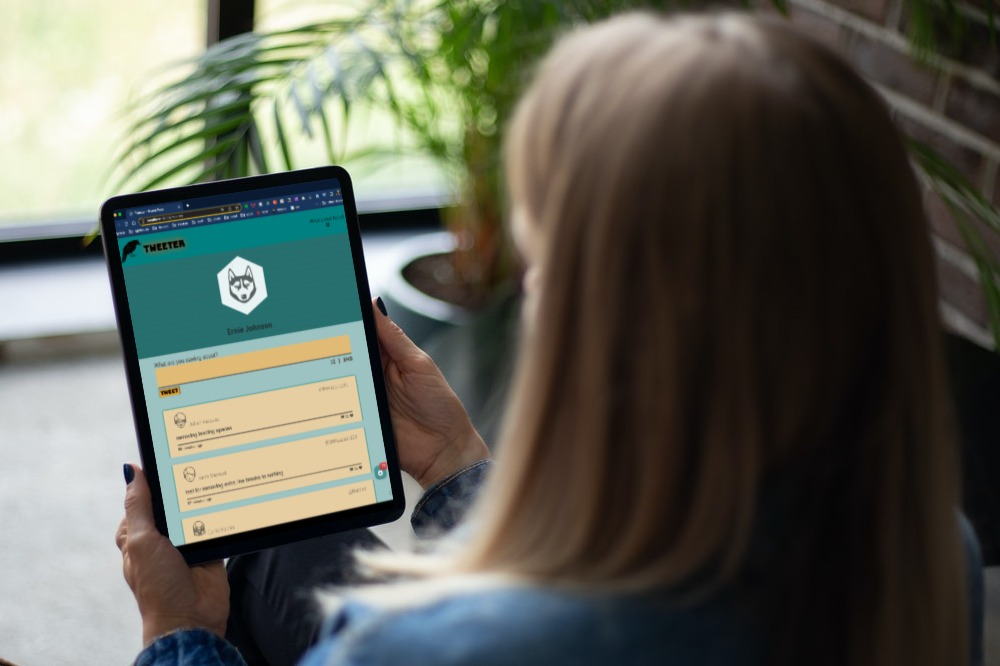
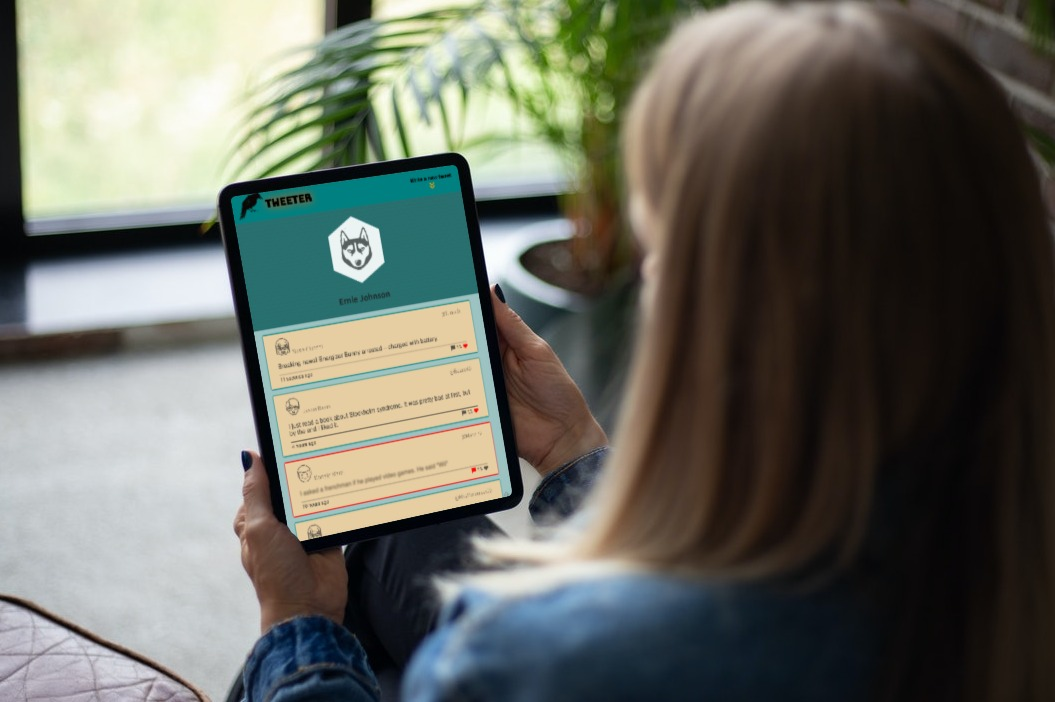
add "more items" pagination

diff --git a/public/styles/layout.css b/public/styles/layout.css
@@ -99,6 +99,23 @@ main {
 .moreItems {
   padding: 10px;
   font-weight: bold;
+  width: 90%;
+  border-radius: 5px;
+  border: 2px solid teal;
+  padding: 5px;
+  margin-bottom: 20px;
+  display: flex;
+  justify-content: center;
+  align-items: center;
+}
+.moreItems:hover {
+  color: #FD5901;
+  cursor: pointer;
+}
+
+.moreText {
+  align-items:center;
+  max-width: 213px;
 }
 .badge2 {
   position:relative;
@@ -110,9 +127,9 @@ main {
   content:attr(data-badge);
   position:absolute;
   top:-5px;
-  right:-10px;
+  right: -25px;
   font-size:.8em;
-  background:#FD5901;
+  background:#fd5901a9;
   color:white;
   width:32px;height:24px;
   text-align:center;
@@ -120,8 +137,4 @@ main {
   line-height:18px;
   border-radius:20%;
   box-shadow:0 0 1px #333;
-}
-.moreItems:hover {
-  color: #FD5901;
-  cursor: pointer;
 }

diff --git a/public/scripts/client.js b/public/scripts/client.js
@@ -181,8 +181,8 @@ $(document).ready(function() {
     // see how many tweetsOnDisplay
     // numTotalUnreadTweets
     // remember we have to count backwards
-    if (tweetsOnDisplay < 1) {
-      $("#more").addClass("hide");
+    if (totalTweetsRemaining < 1) {
+      $(".moreItems").addClass("hide");
       return;
     }
     for(let x = 1; x < tweetsPerLoad + 1; x ++) {
@@ -198,8 +198,8 @@ $(document).ready(function() {
     // UPDATE HTML to show # of tweets remaining: can we put badge on the "more"? 
     // $('#error-block').html -- numTotalUnreadTweets - tweetsOnDisplay
 
-      if (tweetsOnDisplay < 0) {
-        $("#more").addClass("hide");
+      if (totalTweetsRemaining < 1) {
+        $(".moreItems").addClass("hide");
         tweetsOnDisplay = 0;
       }
   });

diff --git a/public/index.html b/public/index.html
@@ -92,7 +92,7 @@
       </section>
       <!-- END: section for showing tweets -->
 
-      <div class="moreItems badge2" data-badge="22" id="more">(( click for more ))</div>
+      <div class="moreItems" ><div class="moreText badge2" data-badge="22" id="more">(( click for more ))</div></div>
 
       <footer class="page-footer">
         <div class="page-footer-blocks"><small>
